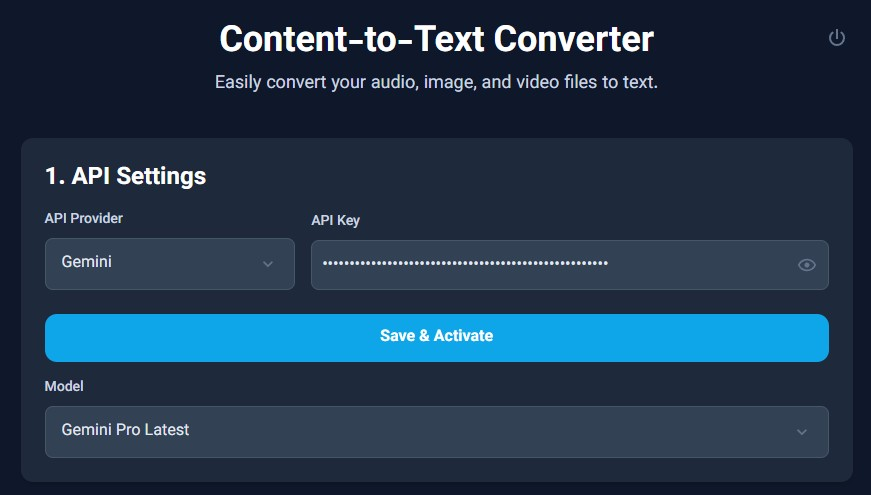
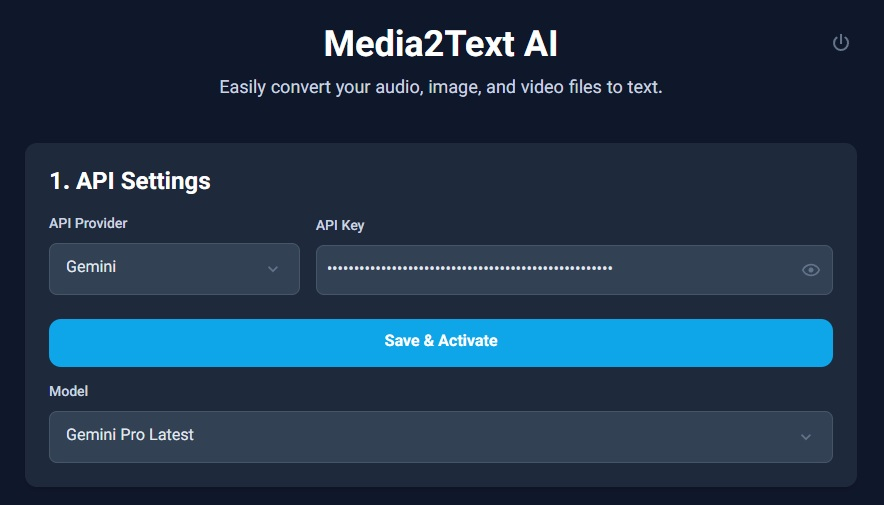
Rename app to Media2Text AI, fix cancel UI after chunking, improve chunk download filenames, and update README and repo links.

diff --git a/index.html b/index.html
@@ -4,7 +4,7 @@
 <head>
     <meta charset="UTF-8" />
     <meta name="viewport" content="width=device-width, initial-scale=1.0" />
-    <title data-key="pageTitle">Content-to-Text Converter</title>
+    <title data-key="pageTitle">Media2Text AI</title>
 
     <!--
         Content-Security-Policy (best effort). GitHub Pages doesn't let us set a real HTTP
@@ -299,7 +299,7 @@
     <div id="main-container" class="max-w-4xl mx-auto p-4 md:p-8 w-full">
 
         <header class="text-center mb-10 relative">
-            <h1 class="text-4xl font-bold text-slate-800 dark:text-white mx-12" data-key="mainTitle">Content-to-Text Converter</h1>
+            <h1 class="text-4xl font-bold text-slate-800 dark:text-white mx-12" data-key="mainTitle">Media2Text AI</h1>
             <p class="text-lg mt-2 text-slate-600 dark:text-slate-300" data-key="subTitle">Easily convert your audio, image, and video files to text.</p>
             <button id="reset-app-btn" class="absolute top-0 right-0 inline-flex items-center justify-center text-slate-500 hover:text-red-500 transition-colors p-1 rounded-lg" data-key="resetAppBtnTooltip" title="Reset Application">
                 <iconify-icon icon="mdi:power" width="24" height="24"></iconify-icon>
@@ -804,14 +804,14 @@
 
     <footer class="mt-12 py-6 border-t border-slate-200 dark:border-slate-800 text-center text-sm text-slate-500 dark:text-slate-400" dir="ltr">
         <div class="flex items-center justify-center gap-3 flex-wrap">
-            <span>© 2026 Content-to-Text Converter</span>
+            <span>© 2026 Media2Text AI</span>
             <span>•</span>
-            <a href="https://github.com/AlirezaNoorizadeh/Content-to-Text-AI-Converter" target="_blank" rel="noopener noreferrer" class="inline-flex items-center gap-1 hover:text-sky-500 font-medium">
+            <a href="https://github.com/AlirezaNoorizadeh/Media2Text-AI" target="_blank" rel="noopener noreferrer" class="inline-flex items-center gap-1 hover:text-sky-500 font-medium">
                 <iconify-icon icon="mdi:github" width="18" height="18"></iconify-icon>
                 GitHub
             </a>
             <span>•</span>
-            <a href="https://github.com/AlirezaNoorizadeh/Content-to-Text-AI-Converter/blob/main/LICENSE" target="_blank" rel="noopener noreferrer" class="inline-flex items-center gap-1 hover:text-sky-500 font-medium">
+            <a href="https://github.com/AlirezaNoorizadeh/Media2Text-AI/blob/main/LICENSE" target="_blank" rel="noopener noreferrer" class="inline-flex items-center gap-1 hover:text-sky-500 font-medium">
                 <iconify-icon icon="mdi:license" width="16" height="16"></iconify-icon>
                 License (MIT)
             </a>
@@ -1032,8 +1032,8 @@
 
             const translations = {
                 en: {
-                    pageTitle: "Content-to-Text Converter",
-                    mainTitle: "Content-to-Text Converter",
+                    pageTitle: "Media2Text AI",
+                    mainTitle: "Media2Text AI",
                     subTitle: "Easily convert your audio, image, and video files to text.",
                     apiSettingsTitle: "1. API Settings",
                     apiProviderLabel: "API Provider",
@@ -1185,8 +1185,8 @@
                     downloadChunkBtn: "Download this chunk",
                 },
                 fa: {
-                    pageTitle: "تبدیل محتوا به متن",
-                    mainTitle: "ابزار تبدیل محتوا به متن",
+                    pageTitle: "Media2Text AI",
+                    mainTitle: "Media2Text AI",
                     subTitle: "فایلهای صوتی، تصویری و ویدیویی خود را به سادگی به متن تبدیل کنید.",
                     apiSettingsTitle: "۱. تنظیمات API",
                     apiProviderLabel: "سرویسدهنده API",
@@ -2186,15 +2186,26 @@
             }
 
             // Triggers a browser download of a single chunk File without navigating away from the page.
-            function downloadChunkFile(file) {
+            // downloadName is optional; when provided it is used as the saved filename instead of file.name.
+            function downloadChunkFile(file, downloadName) {
                 const url = URL.createObjectURL(file);
                 const a = document.createElement('a');
                 a.href = url;
-                a.download = file.name;
+                a.download = downloadName || file.name;
                 document.body.appendChild(a);
                 a.click();
                 document.body.removeChild(a);
                 setTimeout(() => URL.revokeObjectURL(url), 1000);
+            }
+
+            // Builds a user-friendly download filename for a chunk:
+            // e.g. "myvideo_chunk1_(0:00-3:01).mp3"
+            function buildChunkDownloadName(chunk, index, total, originalFileName) {
+                const base = (originalFileName || 'chunk').replace(/\.[^.]+$/, '').replace(/[\\/:*?"<>|]+/g, '_').trim() || 'chunk';
+                const timeRange = (chunk.startSeconds !== undefined && chunk.endSeconds !== undefined)
+                    ? `_(${formatTime(chunk.startSeconds)}-${formatTime(chunk.endSeconds)})`
+                    : '';
+                return `${base}_chunk${index + 1}${timeRange}.mp3`;
             }
 
             function joinIndicesForLabel(indices) {
@@ -2294,7 +2305,10 @@
                         downloadBtn.className = 'inline-flex items-center justify-center flex-shrink-0 p-2 rounded-lg border border-slate-300 dark:border-slate-600 bg-slate-50 dark:bg-slate-700 text-slate-500 dark:text-slate-400 hover:text-sky-500 hover:border-sky-400 transition-colors';
                         downloadBtn.title = translations[currentLang].downloadChunkBtn;
                         downloadBtn.innerHTML = '<iconify-icon icon="mdi:download" width="18" height="18"></iconify-icon>';
-                        downloadBtn.addEventListener('click', () => downloadChunkFile(chunk));
+                        downloadBtn.addEventListener('click', () => {
+                            const name = buildChunkDownloadName(chunk, idx, chunks.length, selectedFile ? selectedFile.name : null);
+                            downloadChunkFile(chunk, name);
+                        });
 
                         row.appendChild(item);
                         row.appendChild(downloadBtn);
@@ -2320,6 +2334,7 @@
                     };
                     function cleanup() {
                         dom.chunkSelectionPanel.classList.add('hidden');
+                        dom.chunkSelectionList.innerHTML = '';
                         dom.chunkSelectionSelectAll.removeEventListener('click', onSelectAll);
                         dom.chunkSelectionSelectNone.removeEventListener('click', onSelectNone);
                         dom.chunkSelectionConfirmBtn.removeEventListener('click', onConfirm);
@@ -2789,6 +2804,10 @@
                     let finalResult = '';
                     let processedChunkNumbers = []; // 1-based original chunk numbers actually combined
                     let totalChunksForLabel = 0;
+                    // When cancel leaves no result, stopLoading() (in finally) always un-hides the
+                    // textarea; this flag makes us restore the placeholder afterwards so the flex
+                    // layout doesn't show both placeholder + empty textarea side-by-side.
+                    let restorePlaceholderAfterStop = false;
 
                     try {
                         const chunkSeconds = parseInt(dom.chunkDurationSelect.value, 10) || 0;
@@ -2886,6 +2905,7 @@
                         console.error('API / Processing Error:', error);
                         if (error.name === 'AbortError') {
                             dom.chunkSelectionPanel.classList.add('hidden');
+                            dom.chunkSelectionList.innerHTML = '';
                             if (processedChunkNumbers.length > 0) {
                                 // Cancelled partway through sending multiple chunks: show the combined
                                 // result of whatever finished before Cancel was pressed (e.g. "3 of 4"
@@ -2905,21 +2925,18 @@
                             } else {
                                 // Nothing was produced in this run (cancelled during FFmpeg slicing,
                                 // during the chunk-selection panel, or before the first chunk/file
-                                // finished uploading) — leave outputText empty for now; the default
-                                // placeholder gets restored below, AFTER stopLoading() (which always
-                                // force-shows outputText), so it's the state that's actually visible.
+                                // finished uploading). stopLoading() in finally always un-hides the
+                                // textarea; restorePlaceholderAfterStop makes us put the placeholder
+                                // back afterwards so both don't sit side-by-side in the flex container.
                                 dom.outputText.value = '';
+                                restorePlaceholderAfterStop = true;
                             }
                             showToast('msgCancelled', false);
                             currentAbortController = null;
                             currentChunkInfo = null;
-                            stopLoading();
-                            if (processedChunkNumbers.length === 0) {
-                                // Go back to the same default empty state as a fresh page load
-                                // (placeholder text), rather than showing a blank box.
-                                dom.outputPlaceholder.classList.remove('hidden');
-                                dom.outputText.classList.add('hidden');
-                            }
+                            // Do NOT call stopLoading() here — finally always runs and would re-show
+                            // the textarea after we hide it. Let finally handle stopLoading, then
+                            // restore the placeholder if needed.
                             return;
                         }
                         const msg = (error.message || '').toLowerCase();
@@ -2937,6 +2954,10 @@
                         currentAbortController = null;
                         currentChunkInfo = null;
                         stopLoading();
+                        if (restorePlaceholderAfterStop) {
+                            dom.outputPlaceholder.classList.remove('hidden');
+                            dom.outputText.classList.add('hidden');
+                        }
                     }
                 });
 

diff --git a/README.md b/README.md
@@ -1,11 +1,10 @@
-# 📑 Content-to-Text Converter
+# 🎬 Media2Text AI
 
 A modern, multilingual, browser-based tool for converting **audio**, **image**, and **video** files into text using AI-powered transcription, OCR, translation, and formatting — all running client-side with optional FFmpeg.wasm chunking for large media files.
 
 <p align="center">
   <img src="https://img.shields.io/badge/PRs-Welcome-brightgreen.svg" alt="PRs Welcome">
   <img src="https://img.shields.io/badge/Platform-Chromium%20%7C%20Edge-4285F4?logo=googlechrome&logoColor=white" alt="Platform Support">
-  <img src="https://img.shields.io/badge/Shell-Bash-4EAA25?logo=gnu-bash&logoColor=white" alt="Bash">
   <img src="https://img.shields.io/badge/Feature-FFmpeg.wasm%20%7C%20Chunking%20%7C%20COI-orange" alt="FFmpeg COI Support">
   <a href="./LICENSE">
     <img src="https://img.shields.io/badge/License-MIT-green.svg" alt="License">
@@ -20,9 +19,11 @@ A modern, multilingual, browser-based tool for converting **audio**, **image**, 
 ```
 index.html              # Main application (HTML + CSS + JS)
 coi-serviceworker.js    # Required for SharedArrayBuffer / FFmpeg.wasm chunking
+vendor/                 # Local copies of FFmpeg.wasm, Tailwind, fonts, icons (optional layout)
+assets/                 # Preview screenshots
 ```
 
-> **Important:** Both files must be served from the **same origin**.  
+> **Important:** `index.html` and `coi-serviceworker.js` must be served from the **same origin**.  
 > Opening `index.html` directly via `file://` disables FFmpeg chunking because `SharedArrayBuffer` is unavailable without Cross-Origin Isolation.
 
 ### Running Locally (Recommended)
@@ -50,7 +51,7 @@ npx http-server -p 8000
 Then open the URL shown in the terminal (e.g. `http://localhost:8000`).
 
 #### Option 4 — Any static file server
-Any HTTP server that serves the two files from the same directory works (Nginx, Caddy, `php -S`, etc.).
+Any HTTP server that serves the files from the same directory works (Nginx, Caddy, `php -S`, etc.).
 
 ### Why `coi-serviceworker.js` is required
 FFmpeg.wasm needs `SharedArrayBuffer` for efficient audio/video chunking. Browsers only expose `SharedArrayBuffer` when the page is **Cross-Origin Isolated** (COOP + COEP headers).  
@@ -77,7 +78,11 @@ The included `coi-serviceworker.js` automatically injects these headers when the
 - 🎵 **Audio Transcription** — Speech-to-text from audio files
 - 🖼 **Image OCR** — Extract text from images and screenshots
 - 🎥 **Video Transcription** — Speech-to-text from video files
-- 📦 **FFmpeg.wasm Chunking** — Split long audio/video into manageable chunks (3–15 min) with optional bitrate control
+- 📦 **FFmpeg.wasm Chunking** — Split long audio/video into manageable chunks (with optional overlap and bitrate control)
+- ✂ **Chunk selection panel** — After slicing, choose which chunks to send to the API (select all / none / individual)
+- ⬇ **Per-chunk download** — Download any chunk as MP3 with a descriptive filename:  
+  `originalname_chunkN_(start-end).mp3`
+- ⏹ **Cancel anytime** — Abort during upload/API calls; partial multi-chunk results are kept when available
 - 📁 **Wide Format Support** — MP3, WAV, OGG, M4A, FLAC, MP4, AVI, MOV, WEBM, MKV, PNG, JPG, WEBP, BMP, and more
 
 ### AI Integration
@@ -106,7 +111,7 @@ The included `coi-serviceworker.js` automatically injects these headers when the
 | Layer | Technology |
 |-------|------------|
 | Frontend | Single-page Vanilla JS (ES6+) |
-| Styling | Tailwind CSS (CDN) + custom dark/light themes |
+| Styling | Tailwind CSS + custom dark/light themes |
 | Icons | Iconify |
 | Typography | Vazirmatn (Persian/Arabic optimized) |
 | Media Processing | FFmpeg.wasm 0.11.x |
@@ -129,15 +134,19 @@ The included `coi-serviceworker.js` automatically injects these headers when the
 
 2. **Upload & Convert**  
    Drag & drop or click to select a file.  
-   Optionally enable FFmpeg chunking and set duration / bitrate.  
+   Optionally enable FFmpeg chunking and set duration / overlap / bitrate.  
    Choose language (or leave Auto-detect) → **Convert to Text**.
 
-3. **Result**  
-   View the transcribed / extracted text.  
-   Expand individual chunks if chunking was used.  
-   Copy, clear, or save to history.
+3. **Chunk selection** (when the file is split into more than one chunk)  
+   Review the list of chunks, toggle which ones to send, or download individual chunks.  
+   Press **Send selected chunks** or **Cancel**.
 
-4. **Translate & Format**  
+4. **Result**  
+   View the transcribed / extracted text.  
+   Expand individual chunk results if chunking was used.  
+   Copy, clear, or restore from history.
+
+5. **Translate & Format**  
    Use the result as source (or paste custom text).  
    Choose mode: Translate & Format / Translate Only / Format Only.  
    Select target language → **Process**.
@@ -165,11 +174,12 @@ The included `coi-serviceworker.js` automatically injects these headers when the
 
 | Issue | Solution |
 |-------|----------|
-| FFmpeg / Chunking unavailable | Make sure you are serving via `http://localhost` (or any HTTP server) **and** `coi-serviceworker.js` is present next to `index.html`. |
+| FFmpeg / Chunking unavailable | Serve via `http://localhost` (or any HTTP server) **and** keep `coi-serviceworker.js` next to `index.html`. |
 | API errors | Verify key validity, quota, and that the selected provider supports the file type. |
 | Large file timeout | Enable chunking or use a shorter chunk duration / lower bitrate. |
 | CORS / network errors | Ensure the page is not opened as `file://`. |
 | UI language / direction | Toggle the language switcher in the header. |
+| Cancel leaves empty box looking broken | Fixed: after cancel with no result, the placeholder is restored correctly. |
 
 ---
 
@@ -189,4 +199,4 @@ This project is licensed under the **MIT License**.
 
 ---
 
-> A complete, professional-grade content-to-text conversion suite packed into a lightweight static web app with client-side FFmpeg processing and multi-provider AI support.
+> Media2Text AI — a lightweight static web app for media-to-text conversion with client-side FFmpeg chunking and multi-provider AI support.
